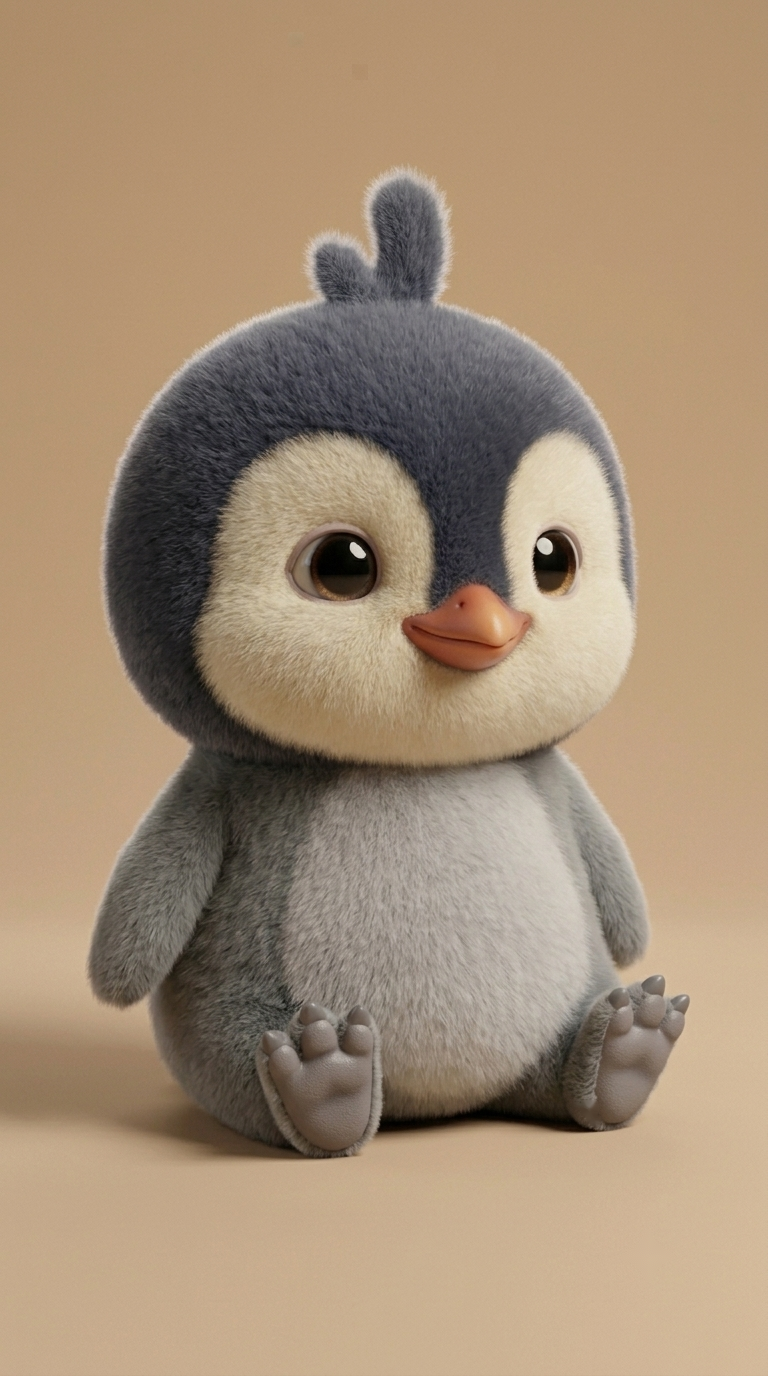
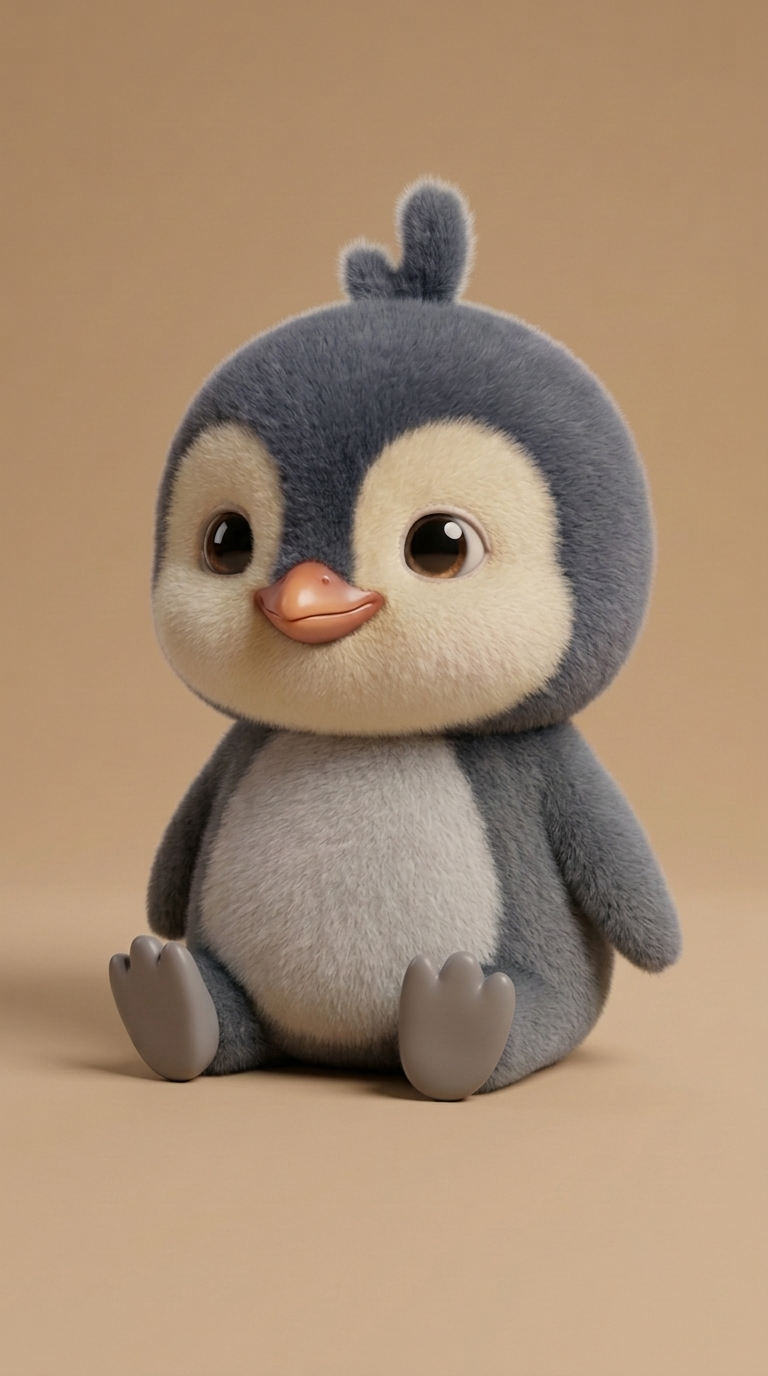
팽창수 앉은 자세 2차 생성본으로 교체 (정상 발), 참조 이미지 20/20 완료
Claude-Session: https://claude.ai/code/session_01SQGDxQ7jeAcwC7nJPg1YUA

diff --git a/docs/00_진행현황.md b/docs/00_진행현황.md
@@ -8,7 +8,7 @@
 | 게이트 | 내용 | 상태 | 비고 |
 |---|---|---|---|
 | G0 | 캐릭터 자산 확보 | ✅ 완료 | 시트 2장 업로드, 워터마크 제거, 각도별 크롭 |
-| G1 | 캐릭터 바이블 확정 | 🔄 진행 중 | 참조 이미지 19/20 수집 완료(팽창수 앉기 재생성 여부만 남음). Q1~Q8 답변 필요 |
+| G1 | 캐릭터 바이블 확정 | 🔄 진행 중 | 참조 이미지 20/20 수집 완료. Q2·Q4·Q5·Q6·Q6b·Q8 답변 필요 |
 | G2 | 공간 바이블 확정 | ⏸ 대기 | Q10~Q16 |
 | G3 | 현실감 규칙집 확정 | 🔄 초안 | R1~R4 작성. Q17~Q20 답변 필요 |
 | G4 | 에피소드 샷리스트 확정 | ⏸ 대기 | Q21~Q26 |
@@ -105,7 +105,7 @@
 | 고해상도 정면 | `pang-changsu_hires_front.png` | ✅ 통과 | 이후 요청 시 시트와 함께 추가 첨부 권장 |
 | 3/4 좌향 | `pang-changsu_3q_left.png` | ✅ 통과 | |
 | 3/4 우향 | `pang-changsu_3q_right.png` | ✅ 통과 | 하단 스펙 텍스트가 생성됨 → 잘라냄 |
-| 앉은 자세 | `pang-changsu_pose_sit.png` | ⚠ 조건부 | 발이 고양이 발바닥(패드+발톱)으로 변형. 자세 참고용으로만 보관, 재생성 권장 |
+| 앉은 자세 | `pang-changsu_pose_sit.png` | ✅ 통과 (2차) | 1차는 발이 고양이 발바닥으로 변형 → 팽미순 앉기를 추가 참조로 재생성해 통과. 1차 원본은 `original/pang-changsu_pose_sit_v1_pawfeet_original.png` |
 | 표정 시트 | `pang-changsu_expressions.png` + `expressions/` 6장 | ⚠ 보류 | 6칸 정상. 단 02 활짝웃음·03 놀람은 부리 열림, 03·04는 흰자 보임 → Q6·Q6b 결정 필요 |
 | 걷는 자세 | `pang-changsu_pose_walk_side.png` | ✅ 통과 | 우향으로 생성됨(프롬프트는 좌향). 팽미순도 우향이라 일관됨 → 걷기 기준 방향을 우향으로 확정 |
 | 누운 자세 | `pang-changsu_pose_lying.png` | ✅ 통과 | |
@@ -134,7 +134,7 @@
 
 ## 다음 세션 할 일
 
-0. 팽창수 앉은 자세 재생성 여부 결정. Q6/Q6b 결정 후 표정 규칙 확정.
+0. Q6/Q6b 결정 후 표정 규칙 확정 → 캐릭터 바이블 확정판.
 
 1. 사용자 답변을 이 문서에 기록.
 2. Q1~Q9 답이 모이면 `01_캐릭터_바이블.md` 확정판으로 갱신.

diff --git a/assets/characters/README.md b/assets/characters/README.md
@@ -17,7 +17,7 @@
 | 팽창수 | `pang-changsu/pang-changsu_hires_front.png` | 고해상도 전신 정면 (768x1376) |
 | 팽창수 | `pang-changsu/pang-changsu_3q_left.png` | 3/4 정면 좌향 |
 | 팽창수 | `pang-changsu/pang-changsu_3q_right.png` | 3/4 정면 우향 (하단 텍스트 잘라냄) |
-| 팽창수 | `pang-changsu/pang-changsu_pose_sit.png` | 앉은 자세 (발 변형, 자세 참고용) |
+| 팽창수 | `pang-changsu/pang-changsu_pose_sit.png` | 앉은 자세 (2차, 정상 발) |
 | 팽창수 | `pang-changsu/pang-changsu_expressions.png` | 표정 6종 그리드 |
 | 팽창수 | `pang-changsu/expressions/pang-changsu_expr_0N_*.png` | 표정 개별 6장 (01 기본, 02 활짝, 03 놀람, 04 째려봄, 05 졸림, 06 슬픔) |
 | 팽창수 | `pang-changsu/pang-changsu_pose_walk_side.png` | 걷는 자세 측면 (우향) |
